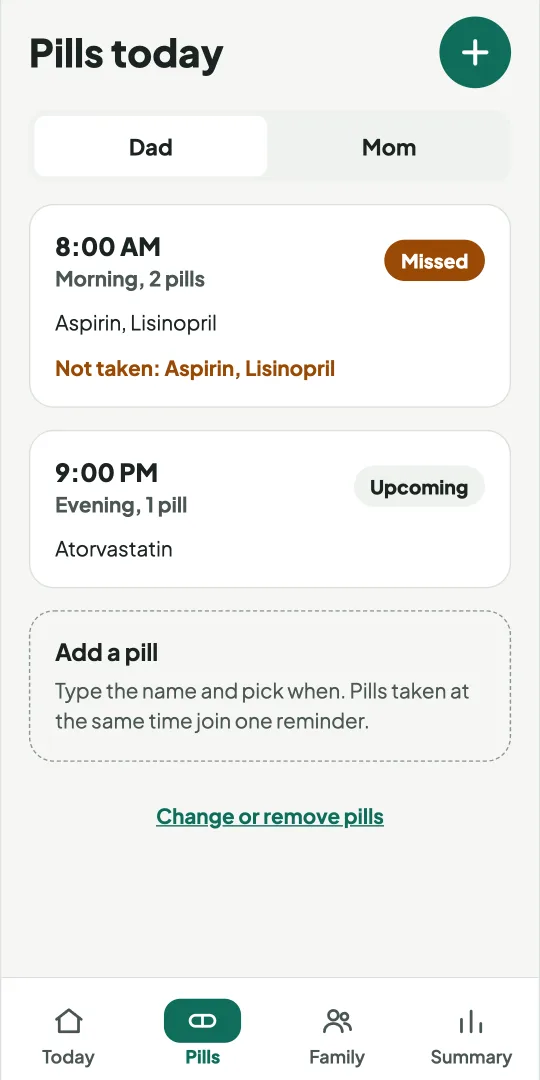
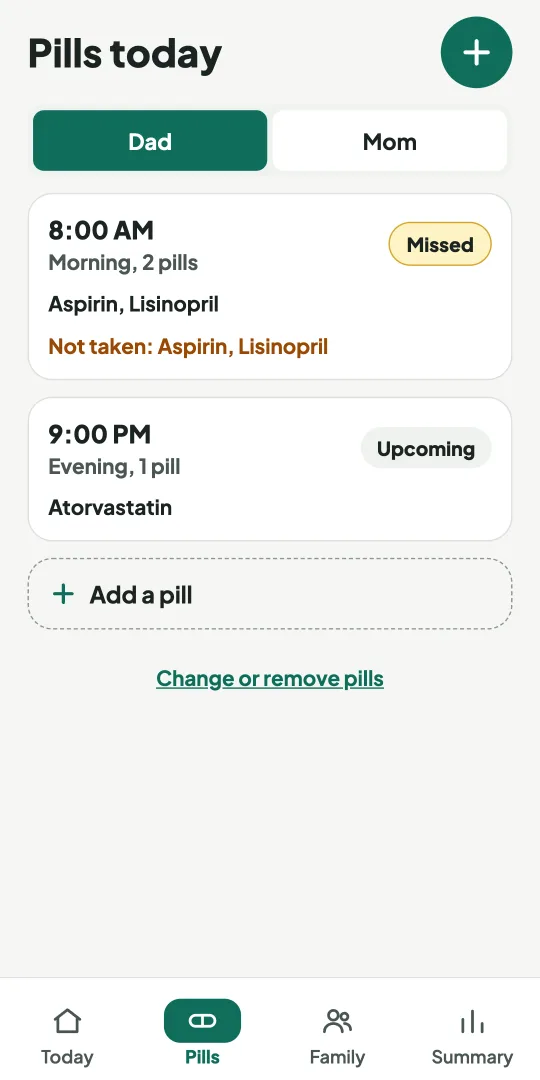
App screens retaken from the current app; alert timeline says every 30 minutes
The six app screens (home page and the 'In the app' blocks of the articles)
show the app as it is on 22 November 2026: smaller buttons, coloured chips
on the Today cards. The home page timeline and the FAQ answer follow the
new alert schedule: a second reminder after an hour, then one more family
member every 30 minutes, the urgent alert after three hours.

diff --git a/templates/home.html b/templates/home.html
@@ -78,11 +78,11 @@
 </div>
 <div style="border-top: 4px solid #0F6E5C; padding-top: 12px">
 <p style="margin: 0; font-weight: 800; font-size: 17px">After 1 hour</p>
-<p style="margin: 2px 0 0; color: #4A5752; font-size: 16px">A notification to the first family member.</p>
+<p style="margin: 2px 0 0; color: #4A5752; font-size: 16px">A second reminder to your parent, and a notification to the first family member.</p>
 </div>
 <div style="border-top: 4px solid #D4A72C; padding-top: 12px">
-<p style="margin: 0; font-weight: 800; font-size: 17px">After 2 hours</p>
-<p style="margin: 2px 0 0; color: #4A5752; font-size: 16px">Repeats every 15 minutes, to two of you.</p>
+<p style="margin: 0; font-weight: 800; font-size: 17px">Every 30 minutes</p>
+<p style="margin: 2px 0 0; color: #4A5752; font-size: 16px">One more family member is told each time.</p>
 </div>
 <div style="border-top: 4px solid #B42318; padding-top: 12px">
 <p style="margin: 0; font-weight: 800; font-size: 17px">After 3 hours</p>
@@ -238,7 +238,7 @@
 </details>
 <details style="border-bottom: 1px solid #DCE1DE">
 <summary style="display: flex; align-items: center; gap: 16px; padding: 22px 0; font-size: 19px; line-height: 1.35; font-weight: 800"><span style="flex: 1 1 auto">What happens if my parent forgets to tap?</span><svg aria-hidden="true" viewBox="0 0 24 24" style="flex: none; width: 24px; height: 24px; transition: transform 0.15s"><path d="M12 5v14M5 12h14" fill="none" stroke="#0F6E5C" stroke-width="2.400" stroke-linecap="round"/></svg></summary>
-<p style="margin: 0; padding: 0 40px 22px 0; color: #4A5752">After 30 minutes the app reminds them. After an hour it tells the first family member, then repeats, and after 3 hours it sends an urgent alert to everyone in the family.</p>
+<p style="margin: 0; padding: 0 40px 22px 0; color: #4A5752">After 30 minutes the app reminds them. After an hour it reminds them again and tells the first family member, then one more family member every 30 minutes, and after 3 hours it sends an urgent alert to everyone in the family.</p>
 </details>
 <details style="border-bottom: 1px solid #DCE1DE">
 <summary style="display: flex; align-items: center; gap: 16px; padding: 22px 0; font-size: 19px; line-height: 1.35; font-weight: 800"><span style="flex: 1 1 auto">How much does it cost?</span><svg aria-hidden="true" viewBox="0 0 24 24" style="flex: none; width: 24px; height: 24px; transition: transform 0.15s"><path d="M12 5v14M5 12h14" fill="none" stroke="#0F6E5C" stroke-width="2.400" stroke-linecap="round"/></svg></summary>
